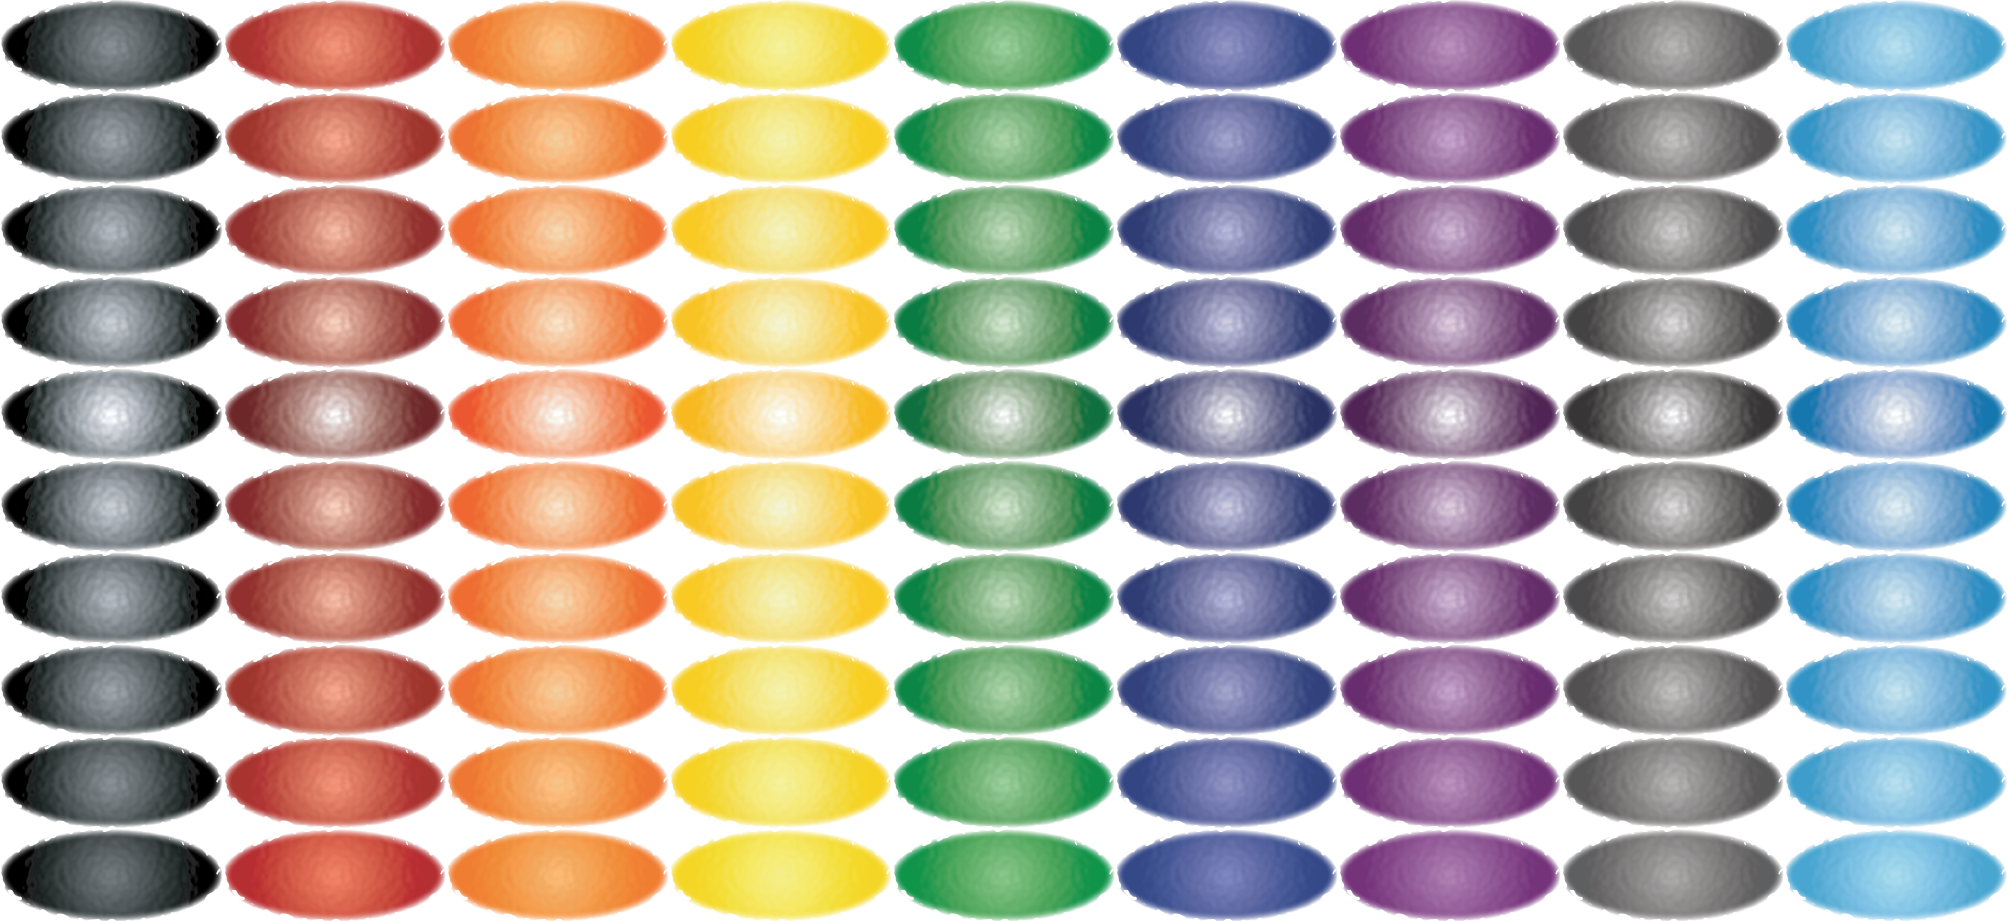
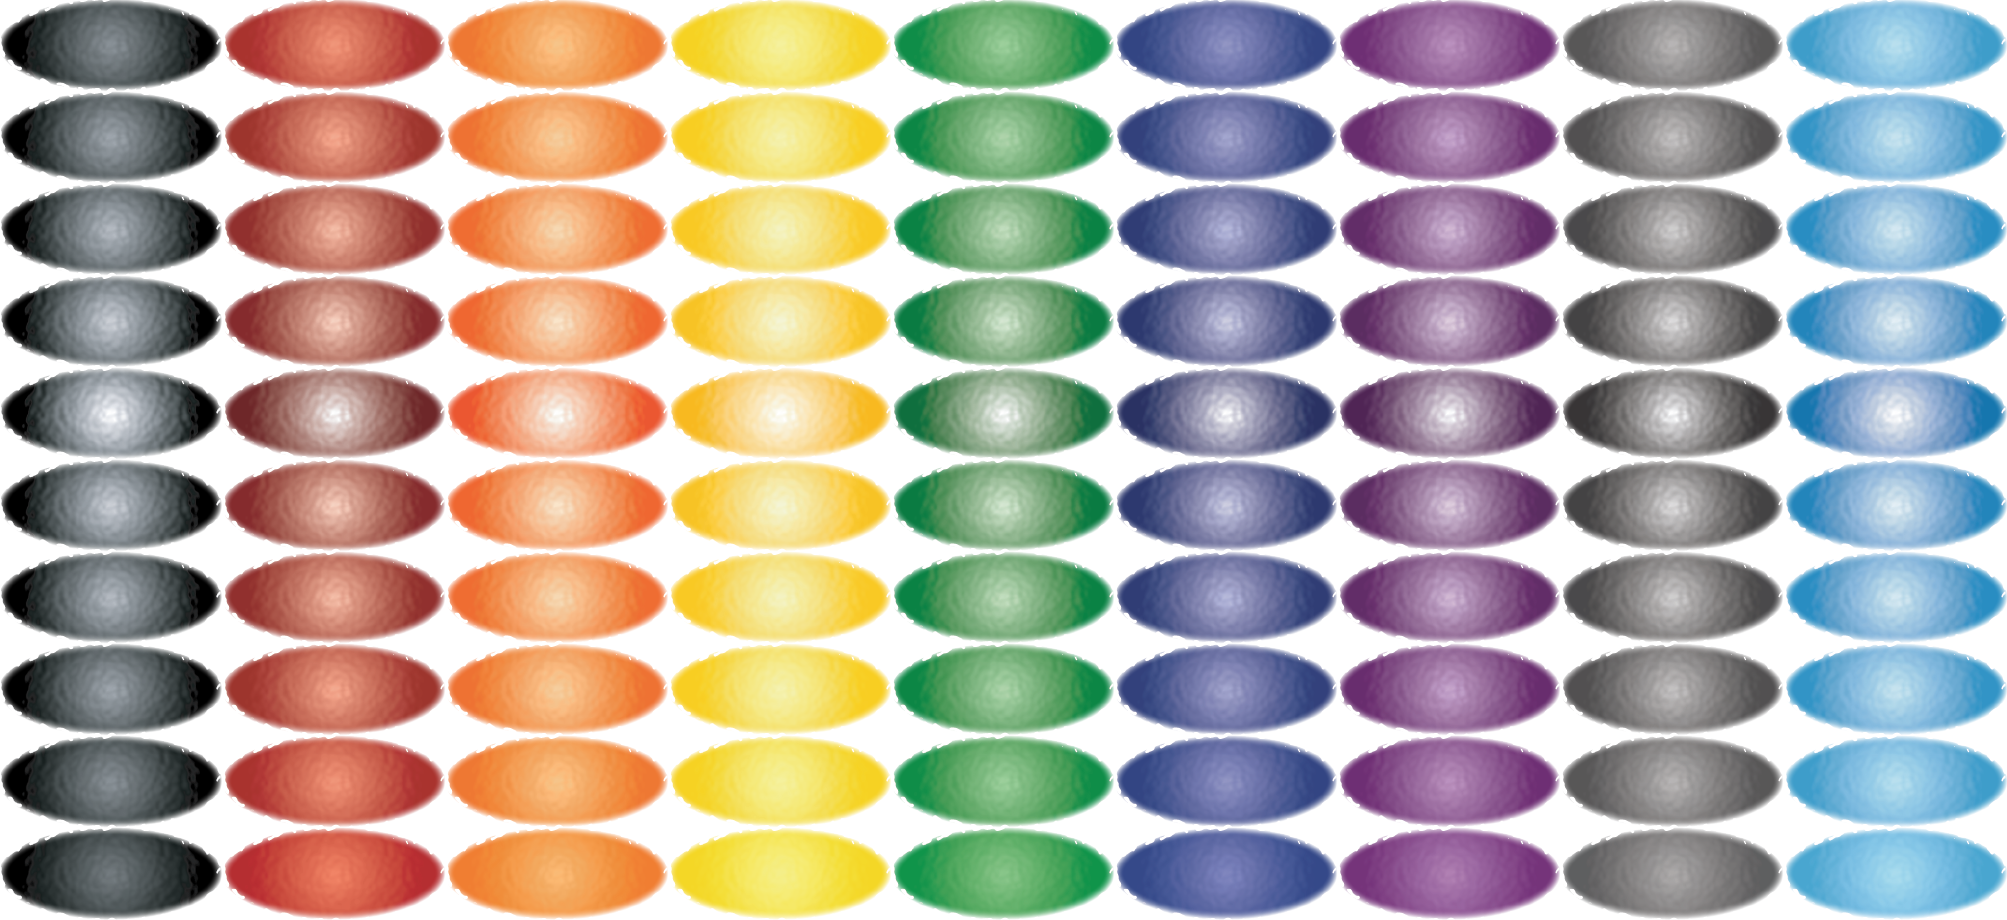
rough sprites in

diff --git a/Animation.cpp b/Animation.cpp
@@ -5,8 +5,29 @@
 #include "Frame.h"
 #include "Animation.h"
 
+Animation::Animation(string fname, int column){
+    int columns, rows, width, height;
+    string imageName;
+    ifstream in(fname.c_str());
+    in>>columns>>rows>>width>>height>>imageName;
+    
+    if (column < columns) {
+        int x = column * width;
+        int y = 0;
+        totalTime = 0;
+        for (int i = 0; i<rows; i++){
+            long t;
+            in>>t;
+            totalTime += t;
+            Frame *f = new Frame(imageName, x, y, width, height, t);
+            frames.insert(frames.end(), f);
+            y += height;
+        }
+    }
+    in.close();
+}
 
-Animation::Animation(string fname){
+Animation::Animation(string fname){//get which animation
     int n;
     ifstream in(fname.c_str());
     in>>n;

diff --git a/Frame.cpp b/Frame.cpp
@@ -1,16 +1,24 @@
 #include "Frame.h"
 #include <iostream>
 #include <string>
-#include <climits>
 
 
-Frame::Frame(string fname, long newTime = LONG_MAX){
+Frame::Frame(string fname, long newTime){
     time = newTime;
     image = IMG_Load(fname.c_str());
     
-    src.x = src.y = dest.x = dest.y = 0;
+    src.x = src.y = dest.x = dest.y = 0;///////////////////
     src.w = dest.w = image->w;
     src.h = dest.h = image->h;
+}
+
+Frame::Frame(string fname, int x, int y, int w, int h, long newTime){
+    time = newTime;
+    image = IMG_Load(fname.c_str());
+    
+    src.x = x; src.y = y; dest.x = dest.y = 0;
+    src.w = w; dest.w = w;
+    src.h = h; dest.h = h;
 }
 
 long Frame::getTime(){

diff --git a/Pane.cpp b/Pane.cpp
@@ -25,7 +25,7 @@ Pane::Pane(){
     levelText = new Text("1", rect2.x + rect2.w, rect2.y);
     
     //pool
-    pool = new Animation("ltBluePool.txt");
+    pool = new Animation("Resources/pools.txt", 8);///////9 is neutral
     SDL_Rect tempRect = pool->getRect();
     poolRect = {static_cast<Sint16>(rect.w/2 - tempRect.w/2), static_cast<Sint16>(rect.h/2 - tempRect.h/2 + rect.y), tempRect.w, tempRect.h};
     cout<<poolRect.x<<" "<<poolRect.y<<" "<<poolRect.w<<" "<<poolRect.h<<endl;

diff --git a/Frame.h b/Frame.h
@@ -14,6 +14,7 @@
 #endif
 
 #include <string>
+#include <climits>
 
 using namespace std;
 
@@ -25,7 +26,8 @@ class Frame{
     SDL_Rect src, dest;
     long time;
 public:
-    Frame(string fname, long newTime);
+    Frame(string fname, long newTime = LONG_MAX);
+    Frame(string fname, int x, int y, int w, int h, long newTime);//for use with sprite sheet
     long getTime();
     void draw(SDL_Surface *screen, int x, int y);
     SDL_Rect getRect();

diff --git a/Animation.h b/Animation.h
@@ -19,6 +19,7 @@ class Animation{
     long totalTime;
 public:
     Animation(string fname);
+    Animation(string fname, int column);//for use with sprite sheet
     void draw(SDL_Surface *screen, int x, int y, long elapsed);
     SDL_Rect getRect();
     ~Animation();
